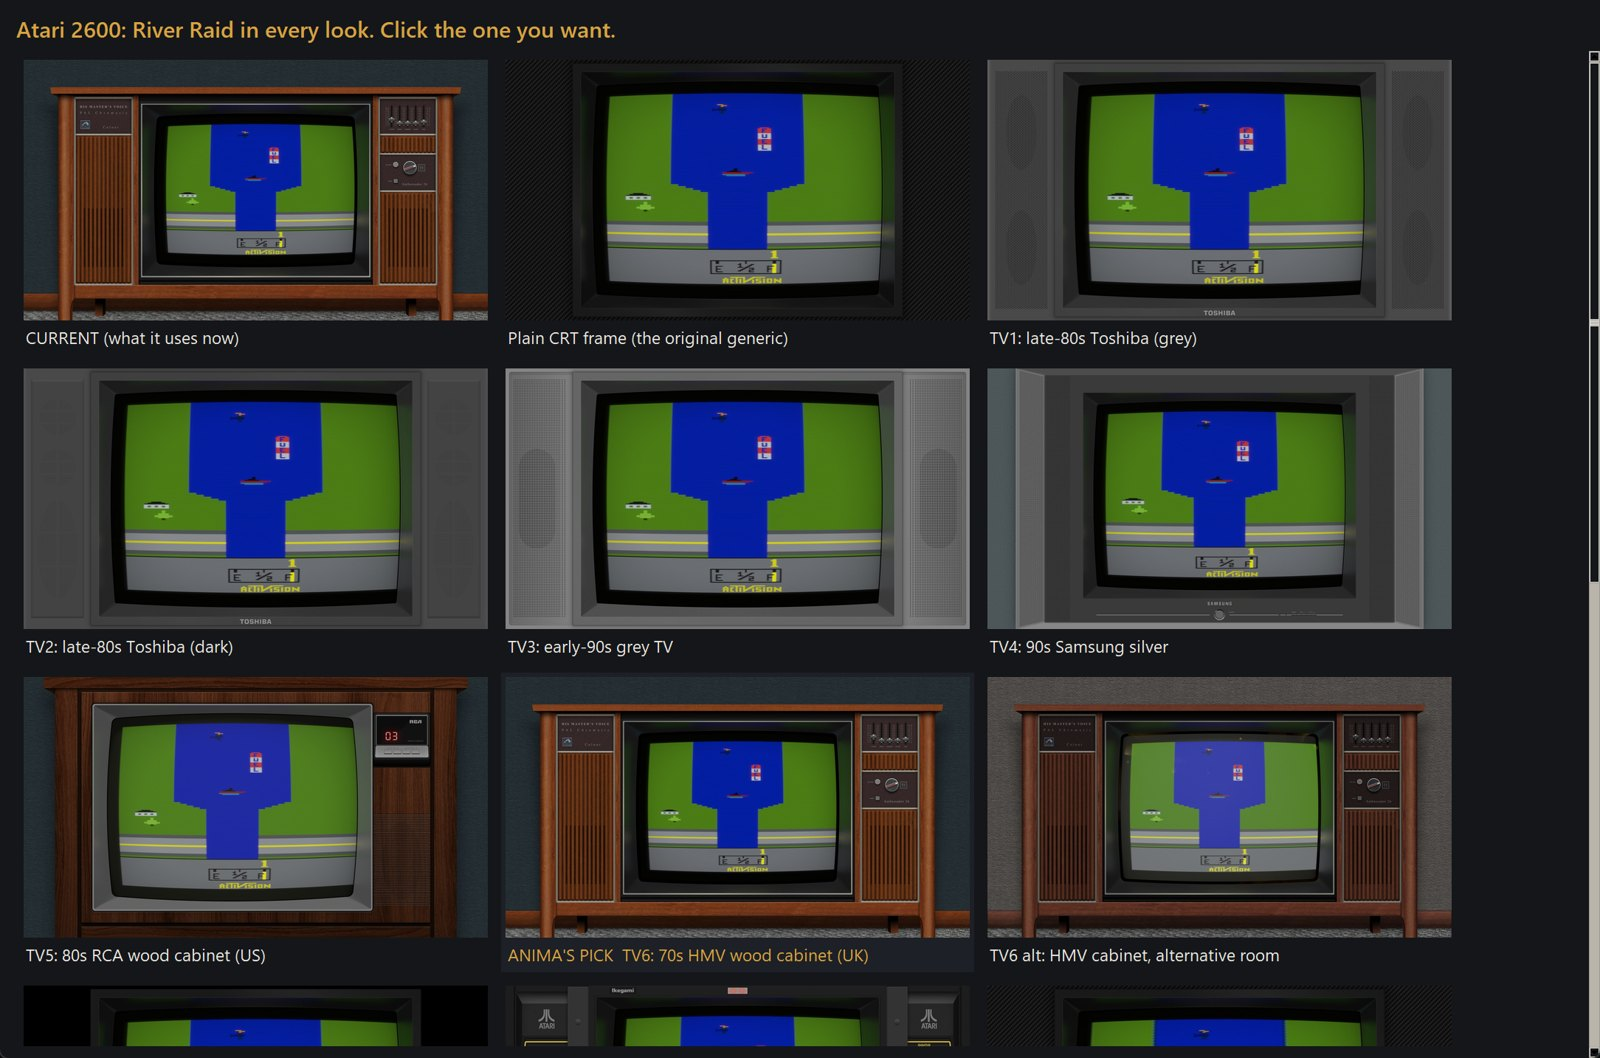
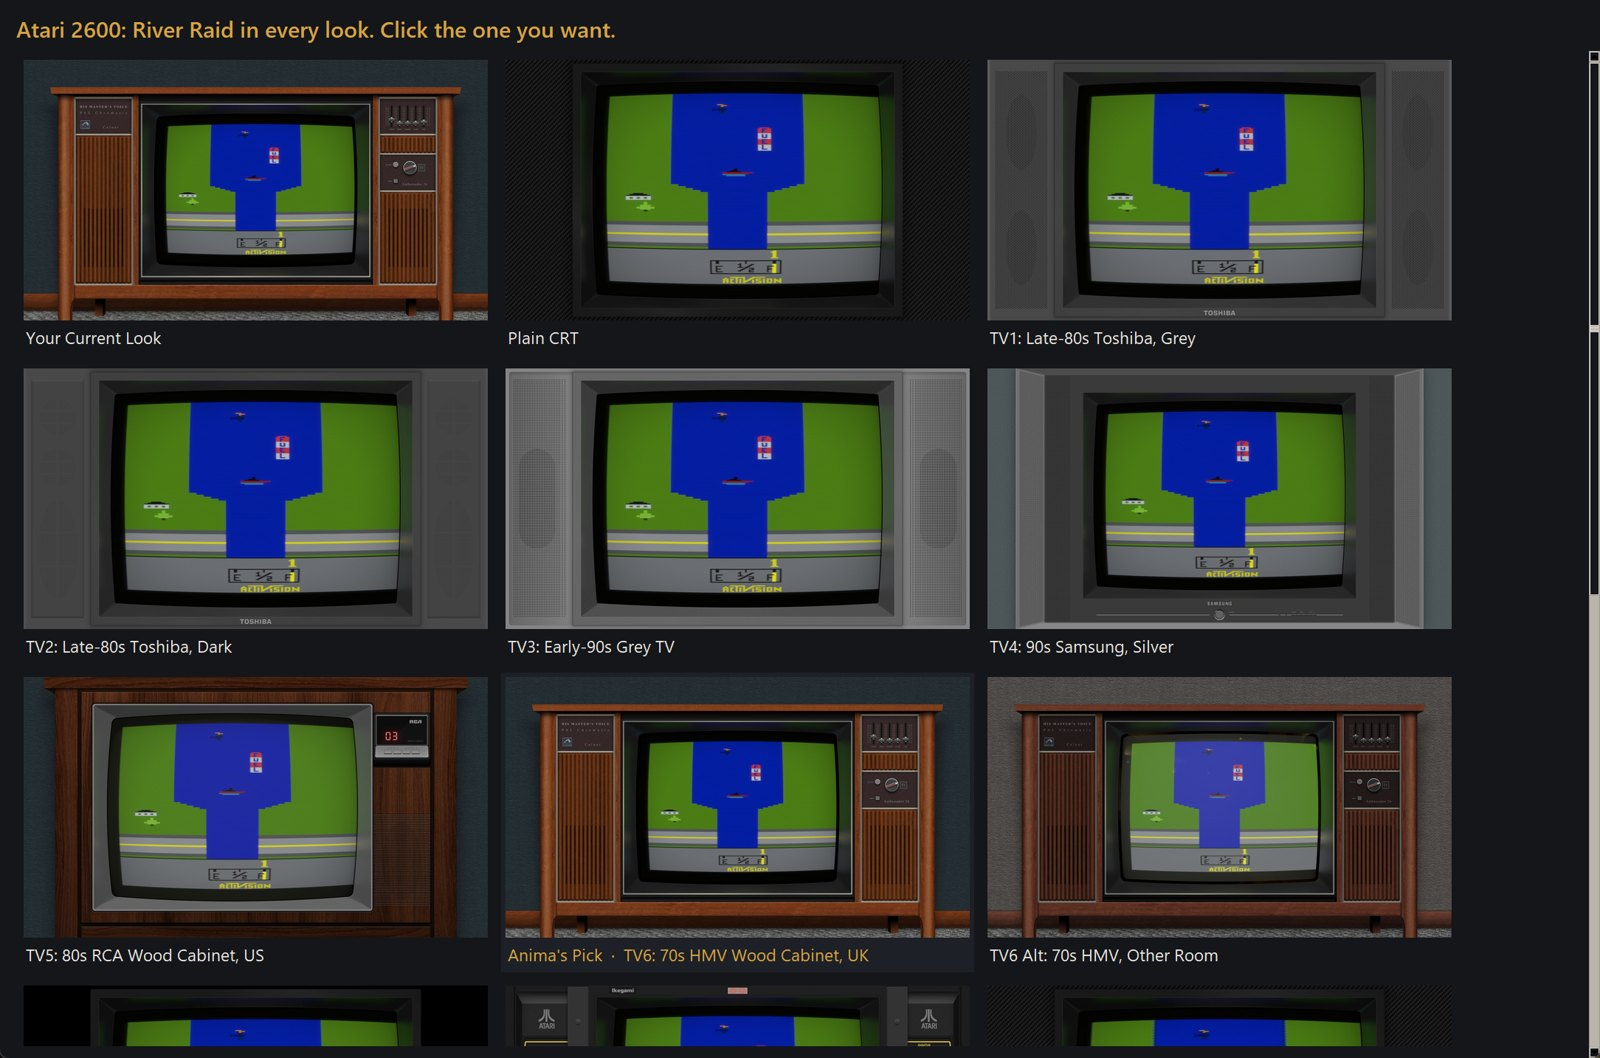
Look gallery: one consistent Shu Case name for every look

diff --git a/tools/setup_wizard.py b/tools/setup_wizard.py
@@ -236,6 +236,65 @@ def guess_folders(root, platforms, depth=3):
     return out
 
 
+TV_LABELS = {"TV1": "Late-80s Toshiba, Grey", "TV2": "Late-80s Toshiba, Dark", "TV3": "Early-90s Grey TV",
+             "TV4": "90s Samsung, Silver", "TV5": "80s RCA Wood Cabinet, US", "TV6": "70s HMV Wood Cabinet, UK",
+             "TV6 alt": "70s HMV, Other Room"}
+STYLE_LABELS = {"sony megatron": "Sony Megatron, Needs HDR", "composite tv": "Composite TV", "easymode": "Easymode, Crisp",
+                "glass frame": "Glass Frame", "smooth": "Smoothed", "super-xbr": "Super-xBR Smoothing"}
+
+
+def shu_case(s):
+    """Every word capitalised; words with capitals or digits (TV, 3DS, 1084S, xBR) are left as they are."""
+    return " ".join(w if any(c.isupper() or c.isdigit() for c in w) else w[:1].upper() + w[1:] for w in s.split(" "))
+
+
+def look_label(raw):
+    """One consistent, readable name for every look in the gallery, whatever the preset file is called."""
+    import re
+    s = raw.strip()
+    if s.startswith(("CURRENT", "APPLIED")):
+        return "Your Current Look"
+    if s.startswith("Plain CRT frame"):
+        return "Plain CRT"
+    m = re.match(r"Plain frame, style: (.*)", s)
+    if m:
+        st = m.group(1).lower()
+        return "Plain CRT: " + next((v for k, v in STYLE_LABELS.items() if st.startswith(k)), shu_case(m.group(1)))
+    m = re.match(r"(TV\d(?: alt)?): (.*)", s)
+    if m:
+        rest = m.group(2)
+        extras = [p for p in re.findall(r"\(([^)]*)\)", rest) if p.lower() not in ("uk", "us", "grey", "dark", "combo")]
+        if " - " in rest:
+            extras.append(rest.split(" - ", 1)[1])
+        if "super-xBR" in rest:
+            extras.append("Super-xBR Combo")
+        return f"{m.group(1).replace(' alt', ' Alt')}: {TV_LABELS.get(m.group(1), shu_case(rest))}" + "".join(f", {shu_case(x)}" for x in extras)
+    m = re.match(r"(Commodore 1084S?|Philips TV)(?: monitor)?,? (.*)", s)
+    if m:
+        kind = "ScaleFX" if "ScaleFX" in s else "Smoothed" if "smooth" in s else "Sharp"
+        return f"{m.group(1)}{' Monitor' if 'Commodore' in m.group(1) else ''}, {kind}"
+    if ":" in s:
+        system, look = [x.strip() for x in s.split(":", 1)]
+        system = system.replace(" DREZ", "")
+        if look.startswith(("Bezel", "Monitor")):
+            return f"{system}: {look.split(',')[0]}"
+        tokens = re.findall(r"\[([^\]]+)\]", look)
+        base = look.split("-[")[0].replace("_", " ").split()
+        sys_words = system.lower().split(); sys_flat = system.lower().replace(" ", "")
+        initials = "".join(x[0] for x in sys_words)
+        variant = [w for w in base if w.lower() not in sys_words and w.lower() not in sys_flat
+                   and w.lower() != initials]   # drop the system's own name or initials (NGPC)
+        kind = "Handheld, LCD Screen" if "LCD-GRID" in tokens else "Mono Monitor" if "Monochrome_Monitor" in tokens else \
+               "Monitor" if "Monitor" in tokens else "Console Frame"
+        parts = [kind] + ([" ".join(variant)] if variant else [])
+        if "DREZ" in tokens:
+            parts.append("Hi-Res" + "".join(f" {t}" for t in tokens if re.match(r"\d+[pX]$", t)))
+        if "flipped" in look:
+            parts.append("Flipped")
+        return f"{system}: " + ", ".join(shu_case(p) for p in parts)
+    return shu_case(s)
+
+
 LEVELS = {
     "Lite": "Library + LaunchBox's own artwork + the CRT/TV looks.",
     "Standard": "Lite, plus extra covers and screenshots from libretro and ArcadeDB, 3D boxes, playlists, menu icons.",
@@ -745,11 +804,11 @@ class Wizard(tk.Tk):
         mine = self.s.get("looks", {}).get(rk)
         for s in shots:
             if s["n"] == mine:
-                return s["n"], br.nice(s["label"]), True
+                return s["n"], look_label(br.nice(s["label"])), True
         n = self.anima_pick(rk, shots)
         for s in shots:
             if s["n"] == n:
-                return s["n"], br.nice(s["label"]), False
+                return s["n"], look_label(br.nice(s["label"])), False
         return None, "its standard look", False
 
     def bezel(self):
@@ -791,13 +850,13 @@ class Wizard(tk.Tk):
             log = self.review_log(rk)
             ttk.Label(inner, text=name, font=("Segoe UI Semibold", 11)).grid(row=r, column=0, sticky="w", pady=6, padx=(0, 18))
             if not log:
-                ttk.Label(inner, text="Anima's pick (render to see and change it)", style="Muted.TLabel").grid(row=r, column=2, sticky="w")
+                ttk.Label(inner, text="Anima's Pick (Render To See And Change It)", style="Muted.TLabel").grid(row=r, column=2, sticky="w")
                 continue
             n, label, mine = self.look_choice(rk, log)
             img = os.path.join(self.review_dir(), rk, f"{n:02d}.jpg") if n else ""
             if img and os.path.exists(img):
                 tk.Label(inner, image=self.thumb(img, 150), bg=BG, bd=0).grid(row=r, column=1, padx=(0, 14), pady=4)
-            ttk.Label(inner, text=("Your pick: " if mine else "Anima's pick: ") + label,
+            ttk.Label(inner, text=("Your Pick: " if mine else "Anima's Pick: ") + label,
                       style="TLabel" if mine else "Muted.TLabel").grid(row=r, column=2, sticky="w")
             ttk.Button(inner, text="Choose", command=lambda k=k, rk=rk: self.choose_look(k, rk)).grid(row=r, column=3, padx=(18, 0))
 
@@ -831,7 +890,7 @@ class Wizard(tk.Tk):
             cell = tk.Frame(inner, bg=PANEL if s["n"] == cur else BG, padx=6, pady=6, cursor="hand2")
             cell.grid(row=i // 3, column=i % 3, padx=6, pady=6, sticky="n")
             pic = tk.Label(cell, image=self.thumb(img, 360), bg=cell["bg"], bd=0); pic.pack()
-            tag = ("ANIMA'S PICK  " if s["n"] == anima_n else "") + br.nice(s["label"])
+            tag = ("Anima's Pick  ·  " if s["n"] == anima_n else "") + look_label(br.nice(s["label"]))
             cap = tk.Label(cell, text=tag, bg=cell["bg"], fg=ACCENT if s["n"] == cur else FG, font=("Segoe UI", 10),
                            wraplength=int(360 * self.ui), justify="left"); cap.pack(anchor="w", pady=(4, 0))
             for wdg in (cell, pic, cap):
